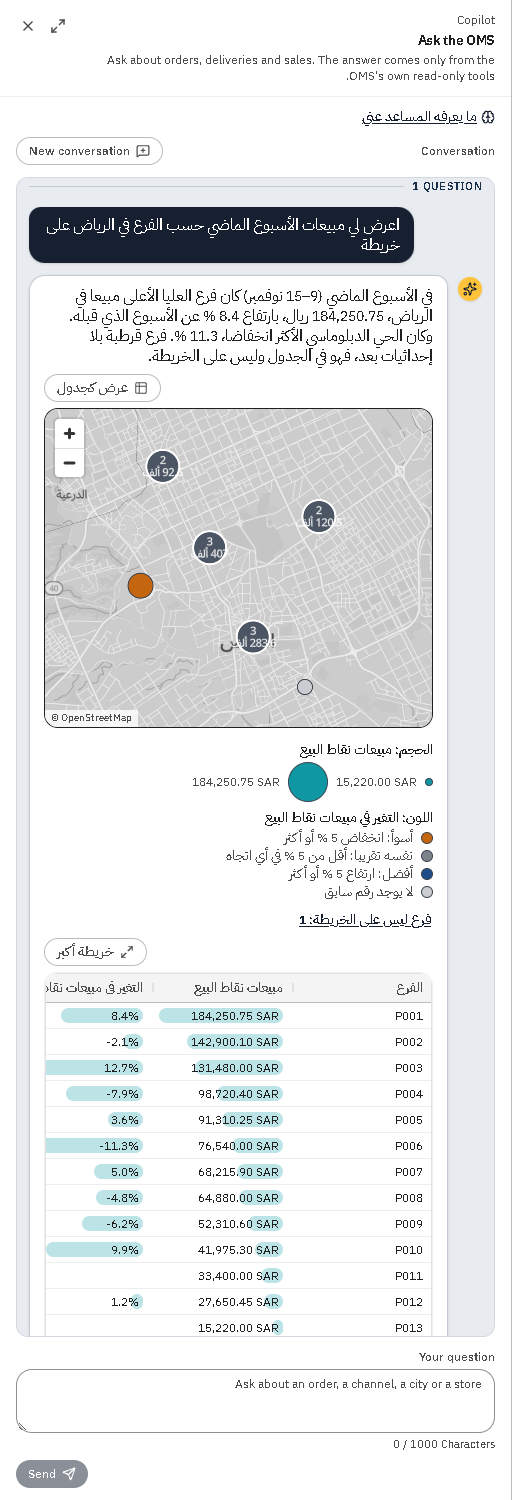
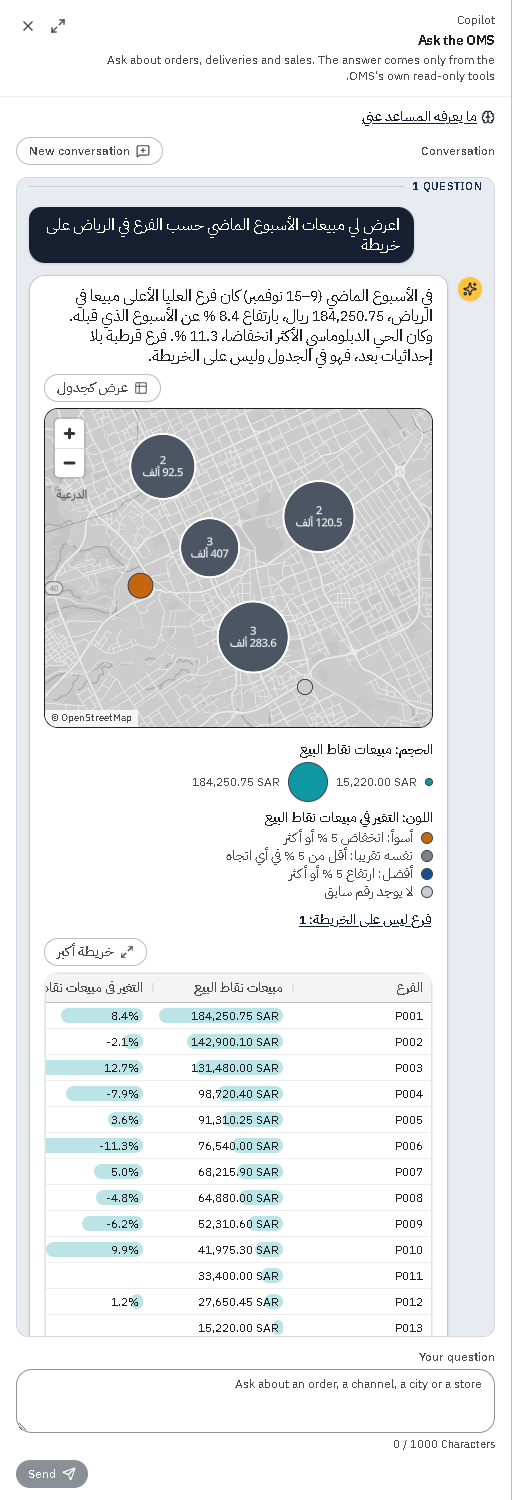
884 shots: group words sit inside their circle; the larger map has a close button
- A group's radius grows from its words (count + sum, en and ar) so they never
  spill past its edge; the minimum (16px) and the one neutral colour stay. The
  engine sets the words with the same size and line height the radius is
  computed from (GROUP_LABEL_TEXT).
- Modal gains an optional closeLabel: given, it draws a labelled X in the title
  bar that calls onClose; absent, every other dialog draws exactly as before.
  The copilot's "Larger map" passes it (en + ar). Escape is unchanged.
- The 884 screenshots re-taken.

Changed region(s): [[0.25, 0.276, 0.5625, 0.46], [0.5312, 0.3067, 0.6875, 0.368]]

diff --git a/src/core/map/map-drawing.test.ts b/src/core/map/map-drawing.test.ts
@@ -1,6 +1,6 @@
 import { describe, expect, it } from 'vitest'
 import { openMapPanel, type MapEngine, type MapEngineEvents, type MapEngineStart, type MapPoint, type MapTarget } from './map-panel'
-import { cardAfter, GROUP_INK, placeCard, pointRadius, POINT_RADIUS, type MapCardState } from './map-drawing'
+import { cardAfter, GROUP_INK, GROUP_LABEL_TEXT, GROUP_RADIUS, placeCard, pointRadius, POINT_RADIUS, type MapCardState } from './map-drawing'
 
 // Ticket 881 (BackOffice spec 3630 M15-M20, M23): what the panel would draw — each point's size, colour and hollow,
 // nearby stores joined into one group, and the card a point shows. The engine is a stand-in: the tests read the
@@ -198,6 +198,36 @@ describe("a group has one neutral colour whatever its members' steps (M19)", () 
     const g = groupsOf(e.start, COUNTRY)[0]
     expect(g.fill).toBe(`ink(${GROUP_INK})`)
     expect(g.fillOpacity).toBe(1)
+  })
+})
+
+describe("a group's words sit inside its circle, in either language (884 shots)", () => {
+  // A lower bound on the drawn words, independent of the panel's own estimate: Noto Sans's narrowest digit advance is
+  // about 0.55 of the font size, and each line is the font size times the line height. The circle must reach the
+  // corners of that box, or the words spill past its edge (the 884 screenshots: "2 / 120.5K" over a 16px circle).
+  const encloses = (label: string, radius: number) => {
+    const lines = label.split('\n')
+    const w = Math.max(...lines.map((l) => [...l].length)) * 0.55 * GROUP_LABEL_TEXT.size
+    const h = lines.length * GROUP_LABEL_TEXT.size * GROUP_LABEL_TEXT.lineHeight
+    return radius >= Math.hypot(w / 2, h / 2)
+  }
+
+  it('a count with a long sum grows the circle until the words are inside it', () => {
+    const { e } = open(STORES, { grouping: { sums: true, formatSum: () => '120.5K' } })
+    const g = groupsOf(e.start, COUNTRY)[0]
+    expect(g.label).toBe('3\n120.5K')
+    expect(encloses(g.label, g.radius)).toBe(true)
+  })
+
+  it('an Arabic sum is inside its circle too', () => {
+    const { e } = open(STORES, { grouping: { sums: true, formatSum: () => '92 ألف' } })
+    const g = groupsOf(e.start, COUNTRY)[0]
+    expect(encloses(g.label, g.radius)).toBe(true)
+  })
+
+  it('a count alone keeps the smallest group circle', () => {
+    const { e } = open(STORES, { grouping: { sums: false, formatSum: () => '' } })
+    expect(groupsOf(e.start, COUNTRY)[0].radius).toBe(GROUP_RADIUS)
   })
 })
 

diff --git a/src/core/map/map-drawing.ts b/src/core/map/map-drawing.ts
@@ -62,8 +62,31 @@ export interface MapFeature {
 /** The point radii in pixels: the smallest and the largest value of the legend, and the plain point of 879. */
 export const POINT_RADIUS = { min: 4, max: 20, plain: 6 } as const
 
-/** A group's radius in pixels. */
+/** A group's smallest radius in pixels: a count alone fits it. */
 export const GROUP_RADIUS = 16
+
+/** How a group's words are set (the engine draws them so): the font size in pixels, and the line height in ems. */
+export const GROUP_LABEL_TEXT = { size: 11, lineHeight: 1.1 } as const
+
+/**
+ * The widest a character of a group's words is taken to be, in ems: above Noto Sans's digits (0.57), its `K` and the
+ * Arabic letters of a sum's word, so the estimate errs on the wide side and the words never reach the circle's edge.
+ */
+const LABEL_CHAR_EM = 0.62
+
+/** Room left between the words and the circle's edge, in pixels. */
+const LABEL_INSET_PX = 2
+
+/**
+ * A group's radius for its words (884 shots): the smallest radius, grown until the circle reaches past every corner of
+ * the words' box, so a long sum ("120.5K", "92 ألف") sits inside its group in either language. Still one neutral colour.
+ */
+export function groupRadius(label: string): number {
+  const lines = label.split('\n')
+  const width = Math.max(...lines.map((l) => [...l].length)) * LABEL_CHAR_EM * GROUP_LABEL_TEXT.size
+  const height = lines.length * GROUP_LABEL_TEXT.size * GROUP_LABEL_TEXT.lineHeight
+  return Math.max(GROUP_RADIUS, Math.ceil(Math.hypot(width / 2, height / 2) + LABEL_INSET_PX))
+}
 
 /** Points closer than this on screen, in pixels, join into one group. */
 export const GROUP_DISTANCE_PX = 40
@@ -183,17 +206,18 @@ export function featuresAt(points: readonly MapPoint[], zoom: number, grouping: 
   return groupsAt(points, zoom).map((g): MapFeature => {
     if (g.kind === 'group') {
       const count = String(g.members.length)
+      const label = grouping?.sums ? `${count}\n${grouping.formatSum(groupSum(g.members))}` : count
       return {
         id: g.id,
         kind: 'group',
         lon: g.lon,
         lat: g.lat,
-        radius: GROUP_RADIUS,
+        radius: groupRadius(label),
         fill: inkOf(GROUP_INK),
         fillOpacity: 1,
         stroke: inkOf(GROUP_RING_INK),
         strokeWidth: 2,
-        label: grouping?.sums ? `${count}\n${grouping.formatSum(groupSum(g.members))}` : count,
+        label,
         members: g.members.map((m) => m.id),
       }
     }

diff --git a/src/core/ui/Modal.tsx b/src/core/ui/Modal.tsx
@@ -1,4 +1,5 @@
 import { useEffect, useRef, type ReactNode } from 'react'
+import { X } from 'lucide-react'
 import { DIALOG, DIALOG_TITLE } from './overlay'
 
 /**
@@ -35,6 +36,12 @@ export interface ModalProps {
    * caller's own buttons decide for themselves. Defaults to `true`.
    */
   dismissable?: boolean
+  /**
+   * The accessible name of a close (X) button drawn at the end of the title bar (a `t()` string). Absent: no button,
+   * and the title bar is drawn exactly as before — a dialog closes by its own footer buttons and Escape. Given by a
+   * dialog with no footer to close it by (the copilot's larger map, oms-react 884). The button calls `onClose`.
+   */
+  closeLabel?: string
 }
 
 export default function Modal({
@@ -46,6 +53,7 @@ export default function Modal({
   children,
   footer,
   dismissable = true,
+  closeLabel,
 }: ModalProps) {
   const ref = useRef<HTMLDialogElement>(null)
   // Kept in a ref so re-rendering with a new closure never re-fires the effect —
@@ -90,12 +98,30 @@ export default function Modal({
       style={{ maxWidth: width }}
     >
       <div className="flex max-h-[90vh] flex-col">
-        <h2
-          id="modal-title"
-          className={'shrink-0 border-b border-border/60 px-3 py-2.5 ' + DIALOG_TITLE}
-        >
-          {title}
-        </h2>
+        {closeLabel ? (
+          <div className="flex shrink-0 items-center justify-between gap-2 border-b border-border/60 px-3 py-2">
+            <h2 id="modal-title" className={'min-w-0 ' + DIALOG_TITLE}>
+              {title}
+            </h2>
+            <button
+              type="button"
+              onClick={onClose}
+              aria-label={closeLabel}
+              title={closeLabel}
+              className="shrink-0 rounded-full p-1 text-muted-foreground hover:bg-muted"
+              data-modal-close=""
+            >
+              <X className="h-4 w-4" aria-hidden />
+            </button>
+          </div>
+        ) : (
+          <h2
+            id="modal-title"
+            className={'shrink-0 border-b border-border/60 px-3 py-2.5 ' + DIALOG_TITLE}
+          >
+            {title}
+          </h2>
+        )}
         <div className="min-h-0 flex-1 overflow-y-auto p-3">{children}</div>
         {footer && (
           <div className="flex shrink-0 justify-end gap-2 border-t border-border/60 px-3 py-2">

diff --git a/src/features/analytics/boards/copilot-map-answer.test.ts b/src/features/analytics/boards/copilot-map-answer.test.ts
@@ -13,6 +13,7 @@ import type { AnalyticsAccess, AnalyticsModel } from '@/core/models/analytics'
 import type { CopilotAnswerTable, CopilotTableColumn } from '@/core/models/copilot'
 import { ANALYTICS_ACCESS_KEY } from './access'
 import { ANALYTICS_MODEL_KEY } from './api'
+import { readFileSync } from 'node:fs'
 import CopilotTableEmbed from './CopilotTableEmbed'
 import { copilotTableParts } from './copilot-table'
 import { mapDisplay, mapDrawing, mapLegendView } from './map-chart'
@@ -194,5 +195,15 @@ describe('the copilot panel draws a map above its table (oms-react 884)', () => 
     expect(mapDisplay({ placed: 0, notOnMap: 3, cannotDraw: false, asTable: false, tableBelow: true })).toEqual({ shows: 'none', line: 'notOnMap', switchTo: null })
     // "Show as table" stays the board's: the map's own table, with each store's name and city.
     expect(mapDisplay({ placed: 2, notOnMap: 0, cannotDraw: false, asTable: true, tableBelow: true })).toEqual({ shows: 'table', line: null, switchTo: 'map' })
+  })
+})
+
+describe('the larger map can be closed from its title bar (884 shots)', () => {
+  it('theLargerMapDialog_isGivenACloseLabel_inEnglishAndArabic', () => {
+    // The dialog is opened by state, so its markup is not in a static render: read the call instead.
+    const source = readFileSync(new URL('./CopilotTableEmbed.tsx', import.meta.url), 'utf8')
+    expect(source).toMatch(/<Modal [^\n]*closeLabel=\{t\('copilotTable\.mapLargerClose'\)\}/)
+    expect(boards.copilotTable.mapLargerClose).toBe('Close the larger map')
+    expect(boardsAr.copilotTable.mapLargerClose).toBe('إغلاق الخريطة الأكبر')
   })
 })

diff --git a/src/core/ui/modal.test.ts b/src/core/ui/modal.test.ts
@@ -1,0 +1,22 @@
+import { createElement } from 'react'
+import { renderToStaticMarkup } from 'react-dom/server'
+import { describe, expect, it } from 'vitest'
+import Modal from './Modal'
+
+// 884 shots: the copilot's "Larger map" dialog had no close button in its title bar. A dialog given a close label draws
+// one there (named by that label); a dialog given none is drawn exactly as before, so no other dialog changes look.
+// Static markup: no DOM, no effects — the open dialog's own elements.
+
+const draw = (closeLabel?: string) =>
+  renderToStaticMarkup(createElement(Modal, { open: true, onClose: () => {}, title: 'The map, larger', closeLabel, children: 'body' }))
+
+describe('a dialog with a close label draws a close button in its title bar', () => {
+  it('the button is named by the label', () => {
+    const html = draw('Close')
+    expect(html).toMatch(/<button[^>]*aria-label="Close"[^>]*data-modal-close/)
+  })
+
+  it('a dialog with no close label draws no button', () => {
+    expect(draw()).not.toContain('<button')
+  })
+})

diff --git a/src/core/map/maplibre-engine.ts b/src/core/map/maplibre-engine.ts
@@ -2,6 +2,7 @@ import maplibregl from 'maplibre-gl'
 import 'maplibre-gl/dist/maplibre-gl.css'
 import { Protocol } from 'pmtiles'
 import { isBasemapUnreadable, isPainted, type MapEngine, type MapEngineEvents, type MapEngineStart, type MapView } from './map-panel'
+import { GROUP_LABEL_TEXT } from './map-drawing'
 import { BASEMAP_SOURCE } from './map-style'
 
 /**
@@ -114,8 +115,9 @@ export function maplibreEngine(): MapEngine {
           layout: {
             'text-field': ['get', 'label'],
             'text-font': ['Noto Sans Medium'],
-            'text-size': 11,
-            'text-line-height': 1.1,
+            // Set as the panel sized each group for them (`groupRadius`), so the words stay inside the circle.
+            'text-size': GROUP_LABEL_TEXT.size,
+            'text-line-height': GROUP_LABEL_TEXT.lineHeight,
             'text-allow-overlap': true,
             'text-ignore-placement': true,
           },

diff --git a/src/features/analytics/boards/CopilotTableEmbed.tsx b/src/features/analytics/boards/CopilotTableEmbed.tsx
@@ -107,7 +107,7 @@ export default function CopilotTableEmbed({ table, index = 0 }: { table: Copilot
               {t('copilotTable.mapLarger')}
             </Button>
           </div>
-          <Modal open={larger} onClose={() => setLarger(false)} title={t('copilotTable.mapLargerTitle')} width="72rem">
+          <Modal open={larger} onClose={() => setLarger(false)} title={t('copilotTable.mapLargerTitle')} closeLabel={t('copilotTable.mapLargerClose')} width="72rem">
             {larger && <MapBody result={result} definition={parts.map} model={drawing} lang={lang} tableBelow className="h-[70vh] w-full" />}
           </Modal>
         </div>
